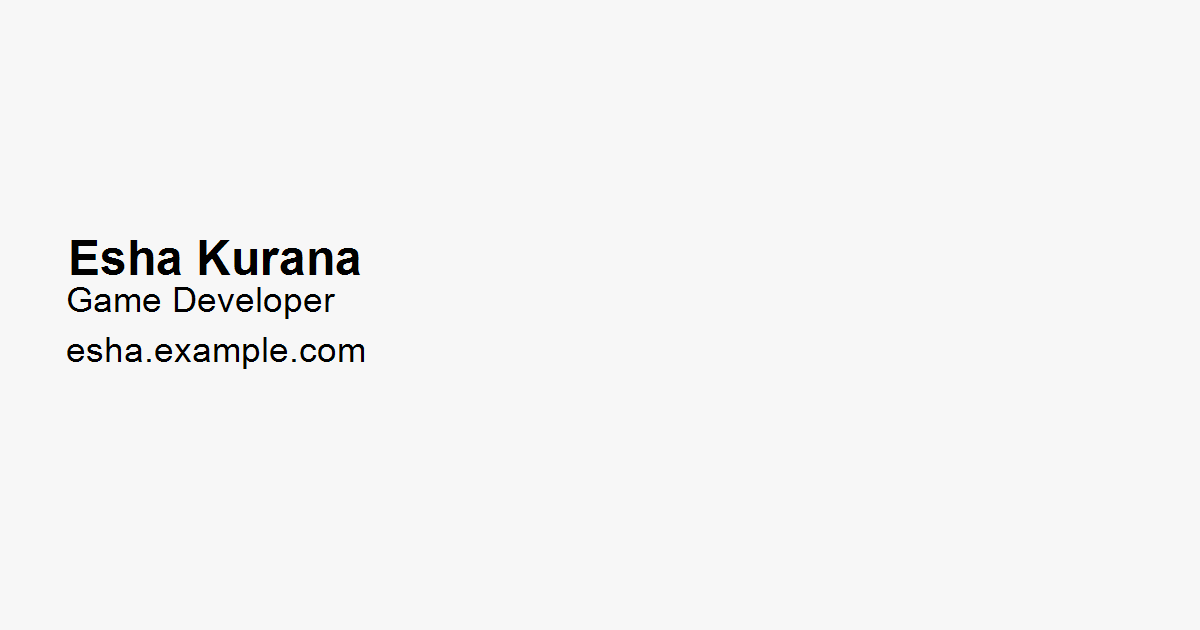
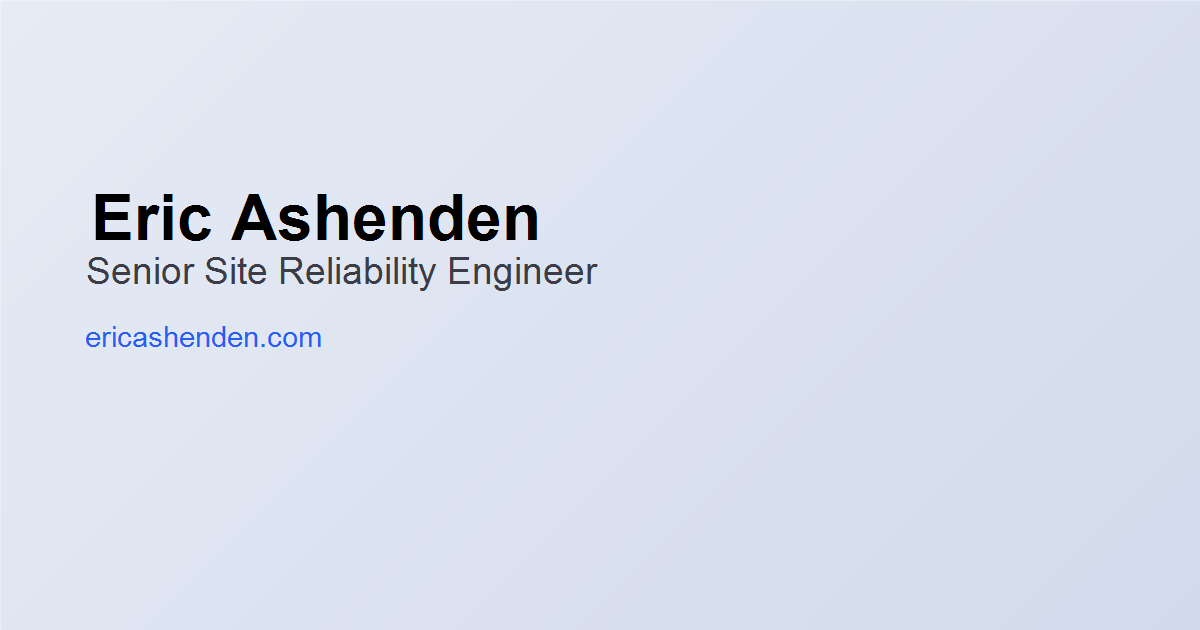
domain and styling updates

diff --git a/src/app/resume/page.tsx b/src/app/resume/page.tsx
@@ -2,39 +2,53 @@ import React from 'react';
 
 const experience = [
   {
-    role: 'Mobile Game Developer',
-    company: 'Indie Studio',
-    time: '2024 — Present',
+    role: 'Senior Site Reliability Engineer',
+    company: 'Corpay',
+    time: '2023 — Present',
     bullets: [
-      'Shipped two mobile prototypes with 30% better retention through faster tutorial loops and tuned haptics.',
-      'Built a Unity tooling bundle to profile frame budgets and automate device smoke tests.',
-      'Partnered with designers to translate paper prototypes into playable builds in under a week.'
+      "Led reliability improvements across Kubernetes workloads, including introducing KEDA-based scaling, optimizing Helm charts, and improving deployment pipelines to increase efficiency and security.",
+      "Drove the migration from legacy identity approaches to Kubernetes Workload Identity, reducing operational risk and simplifying service authentication.",
+      "Expanded observability by building custom Datadog monitors and dashboards and developing a Python-based SSL certificate monitoring tool to close visibility gaps.",
+      "Automated operational workflows to reduce toil, debugged critical production incidents, and improved overall system resilience.",
+      "Mentored junior SREs through incident response, troubleshooting, and automation best practices."
     ]
   },
   {
-    role: 'Software Developer',
-    company: 'Bootcamp + Freelance',
-    time: '2022 — 2024',
+    role: 'Site Reliability Engineer',
+    company: 'Corpay',
+    time: '2021 — 2023',
     bullets: [
-      'Delivered web and mobile MVPs for small clients; focused on performance and accessibility.',
-      'Ran playtest sessions, synthesized feedback, and turned findings into prioritized sprints.',
-      'Maintained CI pipelines with automated checks for crashes and FPS regressions.'
+      "Supported production systems, focusing on incident response, operational automation, and improving developer experience in production environments.",
+      "Partnered closely with application teams to troubleshoot production issues, improve deployment reliability, and reduce recurring operational pain.",
+      "Built and refined automation to eliminate manual operational tasks while learning large-scale system design and reliability practices from experienced engineers.",
+      "Contributed to post-incident reviews, developing a strong understanding of real-world failure modes and system behavior."
+    ]
+  },
+  {
+    role: 'DevOps Engineer',
+    company: 'Flexential',
+    time: '2020 — 2021',
+    bullets: [
+      "Designed, automated, and maintained cloud infrastructure across multiple AWS and Azure client environments using Kubernetes, Terraform, and CI/CD pipelines.",
+      "Served as a technical escalation point for incidents, outages, and complex operational issues across multiple customer environments.",
+      "Led infrastructure onboarding for new clients and acted as the primary engineer for several production environments.",
+      "Improved security posture and reliability through infrastructure refactoring, certificate lifecycle management, and proactive incident response.",
+      "Mentored teammates and collaborated with senior engineers to evolve reference architectures and operational practices."
     ]
   }
 ];
 
 const skills = [
-  'Unity / C#',
-  'C++ basics',
-  'Gameplay programming',
-  'Mobile performance budgets',
-  'Haptics & audio timing',
-  'CI for prototypes',
-  'Playtest synthesis',
-  'Narrative + UX collaboration'
+  'Distributed systems & reliability engineering',
+  'Kubernetes platforms & workload orchestration',
+  'Infrastructure as Code & cloud automation',
+  'Observability, monitoring, and incident analysis',
+  'CI/CD pipelines & release automation',
+  'Production troubleshooting & operational tooling',
+  'Technical mentorship & cross-team collaboration'
 ];
 
-const education = [{ school: 'B.S. Software Development', place: 'State University', time: '2022' }];
+const education = [{ school: 'B.S. Computer Science: Software Engineering', place: 'Radford University', time: '2012-2016' }];
 
 export const metadata = {
   title: 'Resume | Eric Ashenden',
@@ -46,7 +60,6 @@ export default function ResumePage() {
     <section className="mx-auto w-full max-w-4xl px-6 py-12">
       <div className="flex flex-col gap-2">
         <h1 className="text-3xl font-bold text-ink">Resume</h1>
-        <p className="text-muted">Mobile game developer focused on tactile play, fast prototypes, and measurable polish.</p>
         <a
           href="/resume.pdf"
           className="btn btn-primary mt-2 w-fit"

diff --git a/src/app/layout.tsx b/src/app/layout.tsx
@@ -23,13 +23,12 @@ export const metadata: Metadata = {
     template: '%s | Eric Ashenden'
   },
   description:
-    'Game developer focused on mobile experiences, tight feedback loops, and shippable prototypes. Writing about game feel, production habits, and performance budgets.',
-  metadataBase: new URL('https://example.com'),
+    'Senior site reliability engineer focused on resilient cloud systems, observability, automation, and production reliability.',
+  metadataBase: new URL('https://ericashenden.com'),
   openGraph: {
-    title: 'Eric Ashenden | Senior Platform / Site Reliability Engineer',
-    description:
-      'Mobile game developer focused on tactile experiences, performance budgets, and shipping prototypes that feel great.',
-    url: 'https://example.com',
+    title: 'Eric Ashenden | Senior Site Reliability Engineer',
+    description: 'Building resilient cloud platforms with automation, observability, and reliability at scale.',
+    url: 'https://ericashenden.com',
     siteName: 'Eric Ashenden',
     images: [
       {
